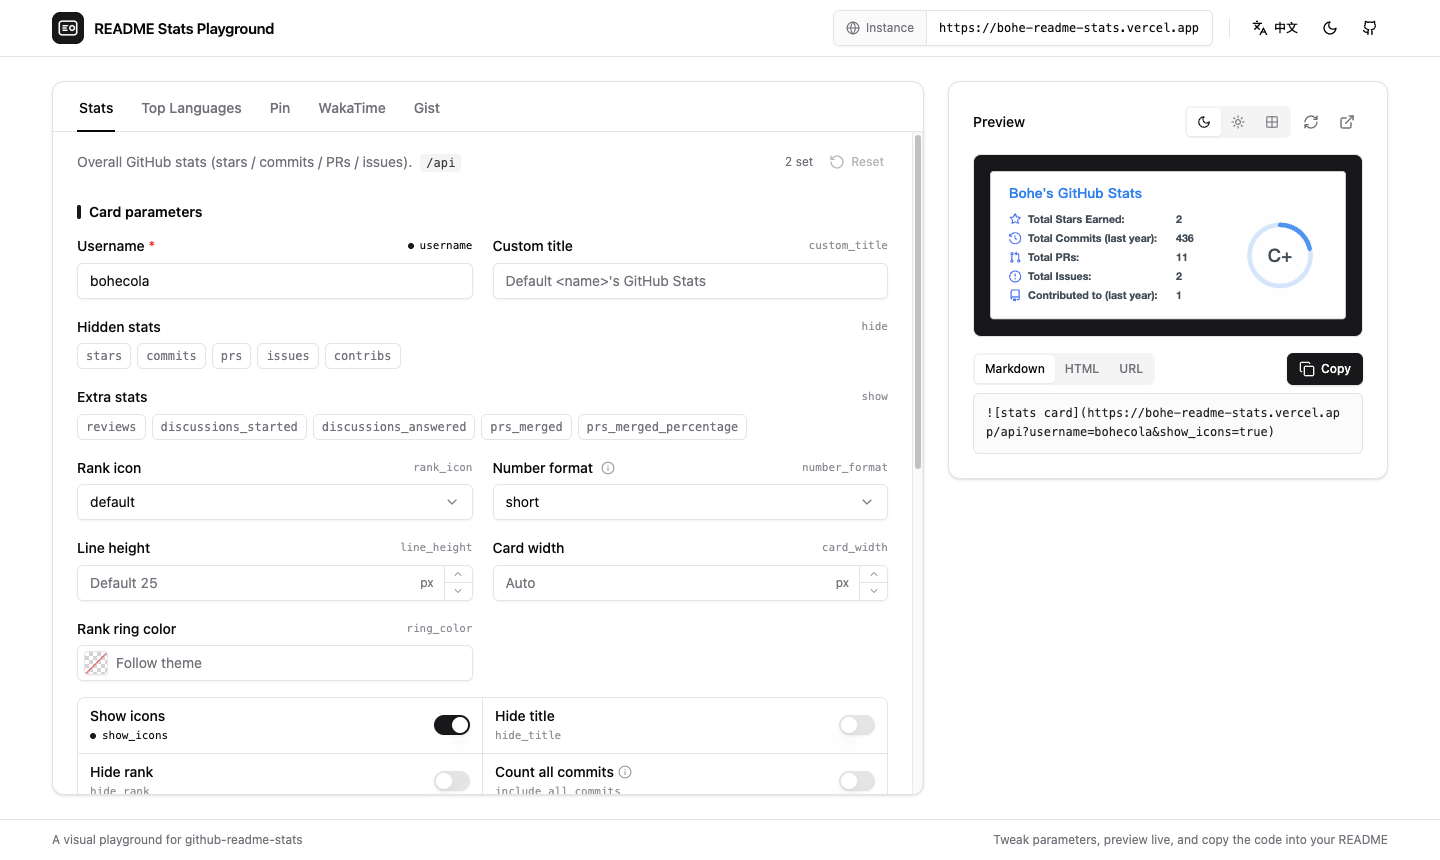
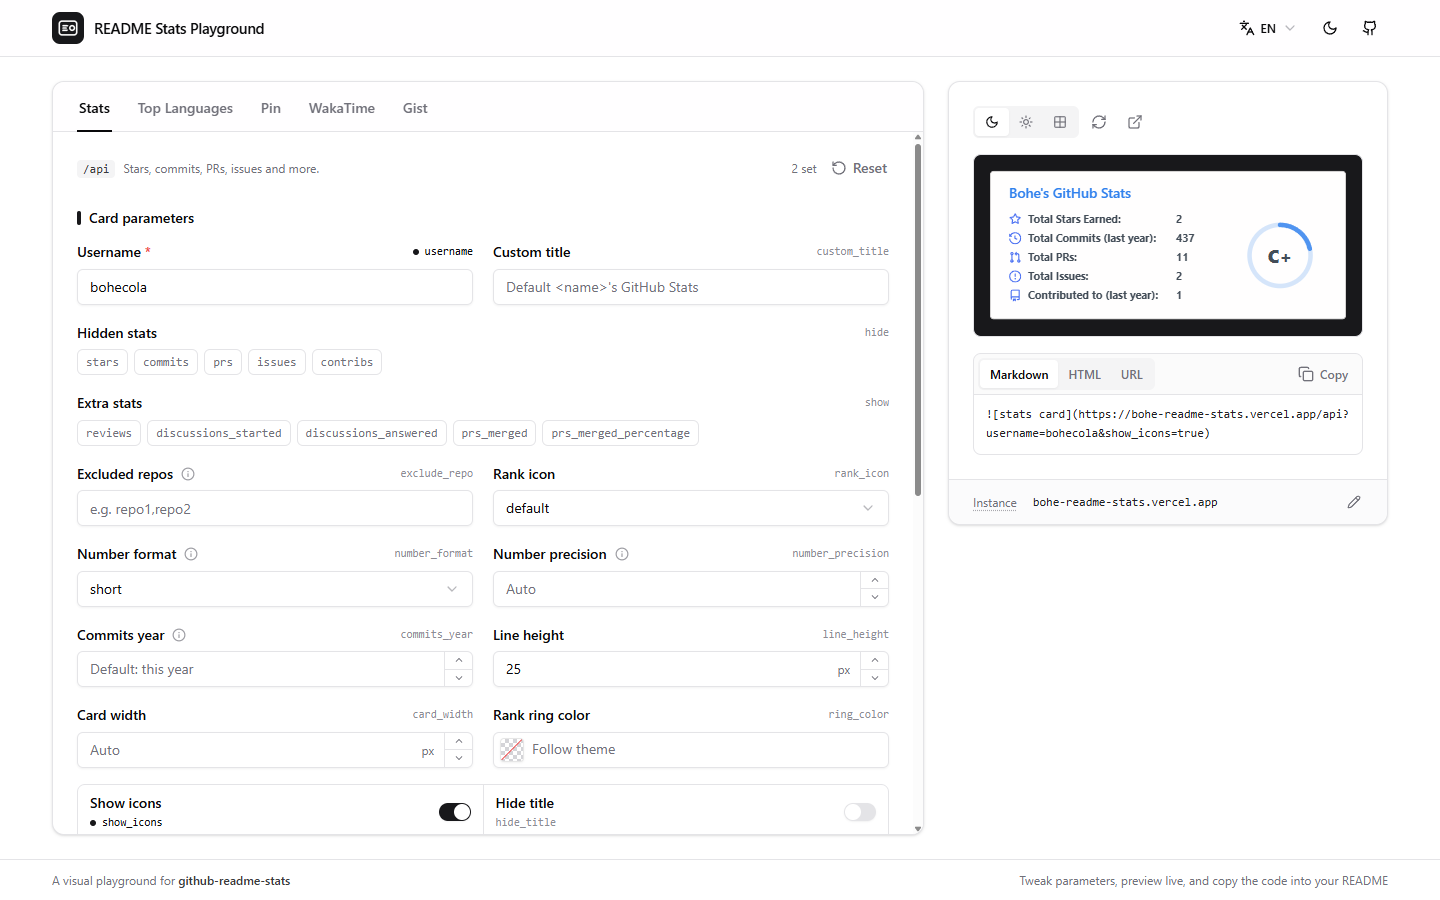
docs: bring the READMEs and screenshots up to date
Feature list mentions the shared common style and the instance field's
new home; tech stack says React 19 / Tailwind CSS 4; project structure
lists the newer components and the generated auto-imports.d.ts; the
contributing notes cover hook auto-imports and keeping ui/ stock.
Screenshots retaken at 1440×900 for both languages.

Claude-Session: https://claude.ai/code/session_0125tYXYZE5TwABCDzra6nNm

diff --git a/README.en.md b/README.en.md
@@ -17,8 +17,9 @@ A visual playground for [github-readme-stats](https://github.com/anuraghazra/git
 - **Complete parameter forms**, each field labelled with its URL key, with hints where useful; params that end up in the URL are marked
 - **Live preview** on dark, light or transparent (checkerboard) backdrops
 - **One-click copy** as URL, Markdown or HTML
+- **Shared common style**: theme, colors and border settings apply to every card at once; any card can opt out and keep its own
 - **Color picker**: HEX / RGB / HSL, alpha, presets and recent colors; visual gradient editor for `bg_color`
-- **Switchable instance**: point it at any self-hosted github-readme-stats deployment
+- **Switchable instance**: point it at any self-hosted github-readme-stats deployment, from the preview card's footer
 - **Stored locally**: parameters and settings live in your browser's localStorage; nothing is uploaded
 - **Light / dark theme**, following the system by default
 - **English and Chinese UI**, following the browser language (English otherwise), switchable in the header
@@ -77,8 +78,12 @@ src/
 │   ├── ColorPicker.tsx      # color picker incl. gradient editor
 │   ├── Preview.tsx          # live preview + URL/Markdown/HTML output
 │   ├── NumberInput.tsx      # numeric input with stepper buttons
+│   ├── HintTip.tsx          # explanation bubble (info icon or dotted-underlined text)
+│   ├── CopyButton.tsx       # copy button
 │   ├── LanguageToggle.tsx   # language switch
-│   └── ui/                  # shadcn/ui components
+│   ├── ThemeToggle.tsx      # light / dark toggle
+│   └── ui/                  # shadcn/ui components (kept identical to the registry)
+├── auto-imports.d.ts        # generated by unplugin-auto-import; React hooks need no import
 ├── i18n.ts                  # i18next setup and language detection
 ├── locales/                 # translations (en.json / zh.json)
 └── lib/
@@ -92,12 +97,14 @@ src/
 
 ## Tech stack
 
-[Vite](https://vitejs.dev/) · [React 18](https://react.dev/) · TypeScript · [Tailwind CSS](https://tailwindcss.com/) · [shadcn/ui](https://ui.shadcn.com/) · [react-i18next](https://react.i18next.com/) · [react-colorful](https://github.com/omgovich/react-colorful) · [lucide](https://lucide.dev/)
+[Vite](https://vitejs.dev/) · [React 19](https://react.dev/) · TypeScript · [Tailwind CSS 4](https://tailwindcss.com/) · [shadcn/ui](https://ui.shadcn.com/) · [react-i18next](https://react.i18next.com/) · [react-colorful](https://github.com/omgovich/react-colorful) · [lucide](https://lucide.dev/)
 
 ## Contributing
 
 Issues and pull requests are welcome. Please make sure `pnpm lint` and `pnpm build` pass before submitting (CI checks both).
 
+- **React hooks need no import**: `useState`, `useEffect` etc. come from `unplugin-auto-import`, declared in `src/auto-imports.d.ts` (regenerated on dev/build; commit it along).
+- **Don't hand-edit `src/components/ui/`**: those are stock shadcn/ui components. Customize at the call site or in a wrapper, so `npx shadcn@latest add --overwrite <component>` can always re-pull them.
 - **Adding or changing a parameter**: define its structure in `src/lib/endpoints.ts`, and add its name and hint under `params` in `src/locales/*.json` (use `cardParams.<card>` to override text for one card).
 - **Adding a language**: copy `src/locales/en.json`, translate it, and register it in `src/i18n.ts`. Keep the keys identical across locale files.
 

diff --git a/README.md b/README.md
@@ -17,8 +17,9 @@
 - **完整参数表单**：每个参数都有名称和原始参数名对照，关键参数附带说明；写入 URL 的参数会被标记
 - **实时预览**：深色 / 浅色 / 透明棋盘格三种预览背景
 - **一键复制**：URL、Markdown、HTML 三种格式
+- **通用样式共用**：主题、颜色、边框等样式一次设置对所有卡片生效；单张卡片可以脱离共用单独设置
 - **取色器**：HEX / RGB / HSL、透明度、预设色与最近使用；`bg_color` 支持可视化编辑渐变
-- **可切换实例**：页面顶部可改为任意自建的 github-readme-stats 实例
+- **可切换实例**：预览卡片底部可改为任意自建的 github-readme-stats 实例
 - **本地保存**：参数和设置保存在浏览器 localStorage，不上传任何数据
 - **明暗主题**：默认跟随系统
 - **中英双语**：默认跟随浏览器语言（非中英文时为英文），可在顶栏切换
@@ -77,8 +78,12 @@ src/
 │   ├── ColorPicker.tsx      # 取色器（含渐变编辑）
 │   ├── Preview.tsx          # 实时预览 + URL/Markdown/HTML 输出
 │   ├── NumberInput.tsx      # 带步进按钮的数值输入
+│   ├── HintTip.tsx          # 说明气泡（ⓘ 图标或带虚线下划线的文字）
+│   ├── CopyButton.tsx       # 复制按钮
 │   ├── LanguageToggle.tsx   # 语言切换
-│   └── ui/                  # shadcn/ui 组件
+│   ├── ThemeToggle.tsx      # 明暗主题切换
+│   └── ui/                  # shadcn/ui 组件（与 registry 保持一致，不手改）
+├── auto-imports.d.ts        # unplugin-auto-import 生成，React hooks 无需 import
 ├── i18n.ts                  # i18next 初始化与语言检测
 ├── locales/                 # 翻译文件（en.json / zh.json）
 └── lib/
@@ -92,12 +97,14 @@ src/
 
 ## 技术栈
 
-[Vite](https://vitejs.dev/) · [React 18](https://react.dev/) · TypeScript · [Tailwind CSS](https://tailwindcss.com/) · [shadcn/ui](https://ui.shadcn.com/) · [react-i18next](https://react.i18next.com/) · [react-colorful](https://github.com/omgovich/react-colorful) · [lucide](https://lucide.dev/)
+[Vite](https://vitejs.dev/) · [React 19](https://react.dev/) · TypeScript · [Tailwind CSS 4](https://tailwindcss.com/) · [shadcn/ui](https://ui.shadcn.com/) · [react-i18next](https://react.i18next.com/) · [react-colorful](https://github.com/omgovich/react-colorful) · [lucide](https://lucide.dev/)
 
 ## 参与贡献
 
 欢迎提交 Issue 和 Pull Request。提交前请确保 `pnpm lint` 和 `pnpm build` 通过（CI 会自动检查）。
 
+- **React hooks 无需 import**：`useState`、`useEffect` 等由 `unplugin-auto-import` 提供，声明在 `src/auto-imports.d.ts`（运行 dev 或 build 时自动更新，需一并提交）。
+- **`src/components/ui/` 不手改**：这些是 shadcn/ui 原样生成的组件，定制请在调用处传 prop 或另写包装组件，这样随时可以用 `npx shadcn@latest add --overwrite <组件>` 重新拉取。
 - **新增或调整参数**：在 `src/lib/endpoints.ts` 中定义结构，并在 `src/locales/*.json` 的 `params` 下补充名称和说明（某张卡片含义不同时写在 `cardParams.<卡片>` 下覆盖）。
 - **新增语言**：复制 `src/locales/en.json` 翻译后，在 `src/i18n.ts` 中注册即可。两份语言文件的 key 需保持一致。
 
